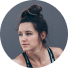
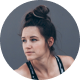
Вносит изменения в проект согласно последним требованиям

diff --git a/source/index.html b/source/index.html
@@ -340,14 +340,14 @@
             </div>
             <div class="juri__slide swiper-slide">
               <picture>
-                <source media="(min-width: 320px)" srcset="img/juri/juri-anna.webp,img/juri/juri-anna@2x.webp 2x "
+                <source media="(min-width: 320px)" srcset="img/juri/juri-kris.webp,img/juri/juri-kris@2x.webp 2x "
                   width="260" height="300" type="image/webp">
-                <img class="juri__img" src="img/juri/juri-anna.jpg" srcset="img/juri/juri-anna@2x.jpg 2x"
-                  alt="Участник жюри Анна Павлова" width="260" height="300">
+                <img class="juri__img" src="img/juri/juri-kris.jpg" srcset="img/juri/juri-kris@2x.jpg 2x"
+                  alt="Участник жюри Кристина Смирнова" width="260" height="300">
               </picture>
-              <h3 class="juri__name juri__name--special">Анна Павлова</h3>
+              <h3 class="juri__name juri__name--special">Кристина Летова</h3>
               <div class="juri__info">
-                <p class="juri__name">Анна Павлова</p>
+                <p class="juri__name">Кристина Летова</p>
                 <p class="juri__text">CrossFit</p>
                 <ul class="juri__list">
                   <li class="juri__item">Certified Level 3 Trainer</li>
@@ -524,7 +524,7 @@
             <ul class="tab-faq__list accordion">
               <li class="tab-faq__item accordion__content open">
                 <h3>Как стать членом <br> фитнес-центра?
-                  <button class="accordion__input open" type="button">
+                  <button class="accordion__input open" type="button" data-test="toggle">
                     <span class="visually-hidden">Закрыть окно.</span>
                   </button>
                 </h3>
@@ -532,7 +532,7 @@
               </li>
               <li class="tab-faq__item accordion__content">
                 <h3>Где можно посмотреть расписание?
-                  <button class="accordion__input" type="button">
+                  <button class="accordion__input" type="button" data-test="toggle">
                     <span class="visually-hidden">Открыть окно.</span>
                   </button>
                 </h3>
@@ -540,7 +540,7 @@
               </li>
               <li class="tab-faq__item accordion__content">
                 <h3>Есть кулеры в центре? Предоставляются полотенца?
-                  <button class="accordion__input" type="button">
+                  <button class="accordion__input" type="button" data-test="toggle">
                     <span class="visually-hidden">Открыть окно.</span>
                   </button>
                 </h3>
@@ -548,7 +548,7 @@
               </li>
               <li class="tab-faq__item accordion__content">
                 <h3>Сколько тренеров работает в клубе и какова <br> их квалификация?
-                  <button class="accordion__input" type="button">
+                  <button class="accordion__input" type="button" data-test="toggle">
                     <span class="visually-hidden">Открыть окно.</span>
                   </button>
                 </h3>
@@ -560,7 +560,7 @@
             <ul class="tab-faq__list accordion">
               <li class="tab-faq__item accordion__content">
                 <h3>Занятия с тренером входят в абонемент?
-                  <button class="accordion__input" type="button">
+                  <button class="accordion__input" type="button" data-test="toggle">
                     <span class="visually-hidden">Открыть окно.</span>
                   </button>
                 </h3>
@@ -570,7 +570,7 @@
               </li>
               <li class="tab-faq__item accordion__content">
                 <h3>Можно ли заморозить абонемент?
-                  <button class="accordion__input" type="button">
+                  <button class="accordion__input" type="button" data-test="toggle">
                     <span class="visually-hidden">Открыть окно.</span>
                   </button>
                 </h3>
@@ -578,7 +578,7 @@
               </li>
               <li class="tab-faq__item accordion__content">
                 <h3>Есть ли лимит по посещениям тренажерного зала и групповых занятий?
-                  <button class="accordion__input" type="button">
+                  <button class="accordion__input" type="button" data-test="toggle">
                     <span class="visually-hidden">Открыть окно.</span>
                   </button>
                 </h3>
@@ -586,7 +586,7 @@
               </li>
               <li class="tab-faq__item accordion__content">
                 <h3>Что такое семейный доступ и доступ для друзей?
-                  <button class="accordion__input" type="button">
+                  <button class="accordion__input" type="button" data-test="toggle">
                     <span class="visually-hidden">Открыть окно.</span>
                   </button>
                 </h3>
@@ -600,7 +600,7 @@
                 <h3>Предлагает ли клуб услуги
                   по консультированию
                   по вопросам питания?
-                  <button class="accordion__input" type="button">
+                  <button class="accordion__input" type="button" data-test="toggle">
                     <span class="visually-hidden">Открыть окно.</span>
                   </button>
                 </h3>
@@ -609,7 +609,7 @@
               </li>
               <li class="tab-faq__item accordion__content">
                 <h3>Проводятся ли в клубе какие-либо мероприятия или соревнования?
-                  <button class="accordion__input" type="button">
+                  <button class="accordion__input" type="button" data-test="toggle">
                     <span class="visually-hidden">Открыть окно.</span>
                   </button>
                 </h3>
@@ -618,7 +618,7 @@
               </li>
               <li class="tab-faq__item accordion__content">
                 <h3>Можно ли приобрести в центре спортивное питание?
-                  <button class="accordion__input" type="button">
+                  <button class="accordion__input" type="button" data-test="toggle">
                     <span class="visually-hidden">Открыть окно.</span>
                   </button>
                 </h3>
@@ -627,7 +627,7 @@
               </li>
               <li class="tab-faq__item accordion__content">
                 <h3>Есть ли в центре детская комната?
-                  <button class="accordion__input" type="button">
+                  <button class="accordion__input" type="button" data-test="toggle">
                     <span class="visually-hidden">Открыть окно.</span>
                   </button>
                 </h3>
@@ -640,7 +640,7 @@
             <ul class="tab-faq__list accordion">
               <li class="tab-faq__item accordion__content">
                 <h3>Есть в фитнес-центре дресс-код?
-                  <button class="accordion__input" type="button">
+                  <button class="accordion__input" type="button" data-test="toggle">
                     <span class="visually-hidden">Открыть окно.</span>
                   </button>
                 </h3>
@@ -649,20 +649,17 @@
                   кроссовки). В целях безопасности, запрещается тренироваться босиком, в пляжных или домашних тапочках и
                   т. п., исключения составляют специальные классы (например, йога, пилатес).</p>
               </li>
-              <li class="tab-faq__item accordion__content">
+              <li class="tab-faq__item accordion__content open">
                 <h3>Можно ли приводить с собой детей на тренировки?
-                  <button class="accordion__input" type="button">
+                  <button class="accordion__input open" type="button">
                     <span class="visually-hidden">Открыть окно.</span>
                   </button>
                 </h3>
-                <p>Для тренировок необходимо иметь предназначенную для этого закрытую спортивную обувь и одежду. Верхняя
-                  и нижняя части тела должны быть закрыты (используйте футболки, майки, спортивные брюки, шорты,
-                  кроссовки). В целях безопасности, запрещается тренироваться босиком, в пляжных или домашних тапочках и
-                  т. п., исключения составляют специальные классы (например, йога, пилатес).</p>
+                <p>Да, можно. В рамках комплексов прекрасные детские комнаты и тренеры со специальным образованием.</p>
               </li>
               <li class="tab-faq__item accordion__content">
                 <h3>Какие дополнительные правила посещения центра?
-                  <button class="accordion__input" type="button">
+                  <button class="accordion__input accordion__input" type="button">
                     <span class="visually-hidden">Открыть окно.</span>
                   </button>
                 </h3>
@@ -673,7 +670,7 @@
               </li>
               <li class="tab-faq__item accordion__content">
                 <h3>Нужна ли медицинская справка для посещения залов и бассейна?
-                  <button class="accordion__input" type="button">
+                  <button class="accordion__input" type="button" data-test="toggle">
                     <span class="visually-hidden">Открыть окно.</span>
                   </button>
                 </h3>
@@ -695,14 +692,12 @@
             <div class="reviews__content">
               <picture>
                 <source media="(min-width: 768px)"
-                  srcset="img/reviews/user-tablet.webp, img/reviews/user-tablet@2x.webp 2x" width="80" height="80"
+                  srcset="img/reviews/user.webp, img/reviews/user@2x.webp 2x" width="80" height="80"
                   type="image/webp">
-                <source media="(min-width: 320px)" srcset="img/reviews/user.webp, img/reviews/user@2x.webp 2x"
-                  width="68" height="68" type="image/webp">
                 <source media="(min-width: 768px)"
-                  srcset="img/reviews/user-tablet.png, img/reviews/user-tablet@2x.png 2x" width="80" height="80"
+                  srcset="img/reviews/user.png, img/reviews/user@2x.png 2x" width="80" height="80"
                   type="image/png">
-                <img src="img/reviews/user.png" srcset="img/reviews/user@2x.png 2x" alt="Клиент фитнес-центра"
+                <img src="img/reviews/user.png" srcset="img/reviews/user@2x.png 2x" alt="Клиент фитнес-центра Анна"
                   width="68" height="68">
               </picture>
               <div class="reviews__info">
@@ -715,19 +710,17 @@
             <div class="reviews__content">
               <picture>
                 <source media="(min-width: 768px)"
-                  srcset="img/reviews/user-tablet.webp, img/reviews/user-tablet@2x.webp 2x" width="80" height="80"
+                  srcset="img/reviews/user-second.webp, img/reviews/user-second@2x.webp 2x" width="80" height="80"
                   type="image/webp">
-                <source media="(min-width: 320px)" srcset="img/reviews/user.webp, img/reviews/user@2x.webp 2x"
-                  width="68" height="68" type="image/webp">
                 <source media="(min-width: 768px)"
-                  srcset="img/reviews/user-tablet.png, img/reviews/user-tablet@2x.png 2x" width="80" height="80"
+                  srcset="img/reviews/user-second.png, img/reviews/user-second@2x.png 2x" width="80" height="80"
                   type="image/png">
-                <img src="img/reviews/user.png" srcset="img/reviews/user@2x.png 2x" alt="Клиент фитнес-центра"
+                <img src="img/reviews/user-second.png" srcset="img/reviews/user-second@2x.png 2x" alt="Клиент фитнес-центра Кристина"
                   width="68" height="68">
               </picture>
               <div class="reviews__info">
-                <h3>Анна Орлова</h3>
-                <p>«Хожу в Supergym уже больше года. Нравится, что в клубе всегда чисто, тренажёры обновляют, персонал дружелюбный. <br> Зал просторный, <br> даже в вечернее время <br> нет очередей»</p>
+                <h3>Кристина Смирнова</h3>
+                <p>«Много лет посещаю данный зал. Отличные тренажёры, талантливые тренеры, есть детская комната. Часто проводят акции, цены доступные.»</p>
               </div>
             </div>
           </div>

diff --git a/source/sass/elements/tab/tab-price.scss b/source/sass/elements/tab/tab-price.scss
@@ -76,23 +76,22 @@
 }
 
 .tab-price__list {
-  margin: 0;
+  margin: 0 auto;
   padding: 0;
   list-style: none;
-  display: flex;
-  flex-direction: column;
+  display: grid;
   gap: 35px;
+  width: 290px;
 
   @media (min-width: $tablet-width) {
     gap: 40px;
-    padding: 0 149px;
+    width: 380px;
   }
 
   @media (min-width: $desktop-width) {
-    flex-direction: row;
-    justify-content: center;
+    grid-template-columns: repeat(3, 360px);
+    width: 1160px;
     padding: 0;
-    gap: 37px;
   }
 }
 
@@ -108,10 +107,6 @@
 
   @media (min-width: $tablet-width) {
     padding: 65px;
-  }
-
-  @media (min-width: $desktop-width) {
-    padding: 65px 80px 67px;
   }
 }
 

diff --git a/source/sass/blocks/reviews/reviews.scss b/source/sass/blocks/reviews/reviews.scss
@@ -3,7 +3,7 @@
   padding: 41px 15px 40px;
 
   @media (min-width: $tablet-width) {
-    padding: 60px 45px;
+    padding: 60px 45px 59px;
   }
 
   @media (min-width: $desktop-width) {
@@ -46,6 +46,8 @@
   margin: 40px 25px 0;
   background-color: $secondary-blue;
   color: $base-white;
+  min-height: 328px;
+  box-sizing: border-box;
 
   @media (min-width: $tablet-width) {
     margin: 36px 89px 0 88px;
@@ -53,12 +55,15 @@
     flex-direction: row;
     align-items: flex-start;
     gap: 39px;
+    min-height: 243px;
+
   }
 
   @media (min-width: $desktop-width) {
     margin: 75px 55px 0;
     padding: 61px 60px 0;
     gap: 30px;
+    min-height: 259px;
   }
 }
 

diff --git a/source/js/slider.js b/source/js/slider.js
@@ -11,10 +11,10 @@ export function slider() {
 
     slidesPerView: 'auto',
 
-    autoplay: {
-      delay: 2500,
-      disableOnInteraction: true,
-    },
+    // autoplay: {
+    //   delay: 2500,
+    //   disableOnInteraction: true,
+    // },
 
     allowTouchMove: true,
 

diff --git a/source/sass/blocks/features/features.scss b/source/sass/blocks/features/features.scss
@@ -195,7 +195,7 @@
 
   @media (min-width: $tablet-width) {
     margin: 0 0 2px;
-    padding: 35px 0;
+    padding: 36px 0 35px;
     grid-row: auto;
     grid-column: 2/4;
     display: flex;

diff --git a/source/sass/blocks/price/price.scss b/source/sass/blocks/price/price.scss
@@ -9,7 +9,7 @@
   }
 
   @media (min-width: $desktop-width) {
-    padding: 0 103px 100px;
+    padding: 0 103px 102px;
   }
 }
 
